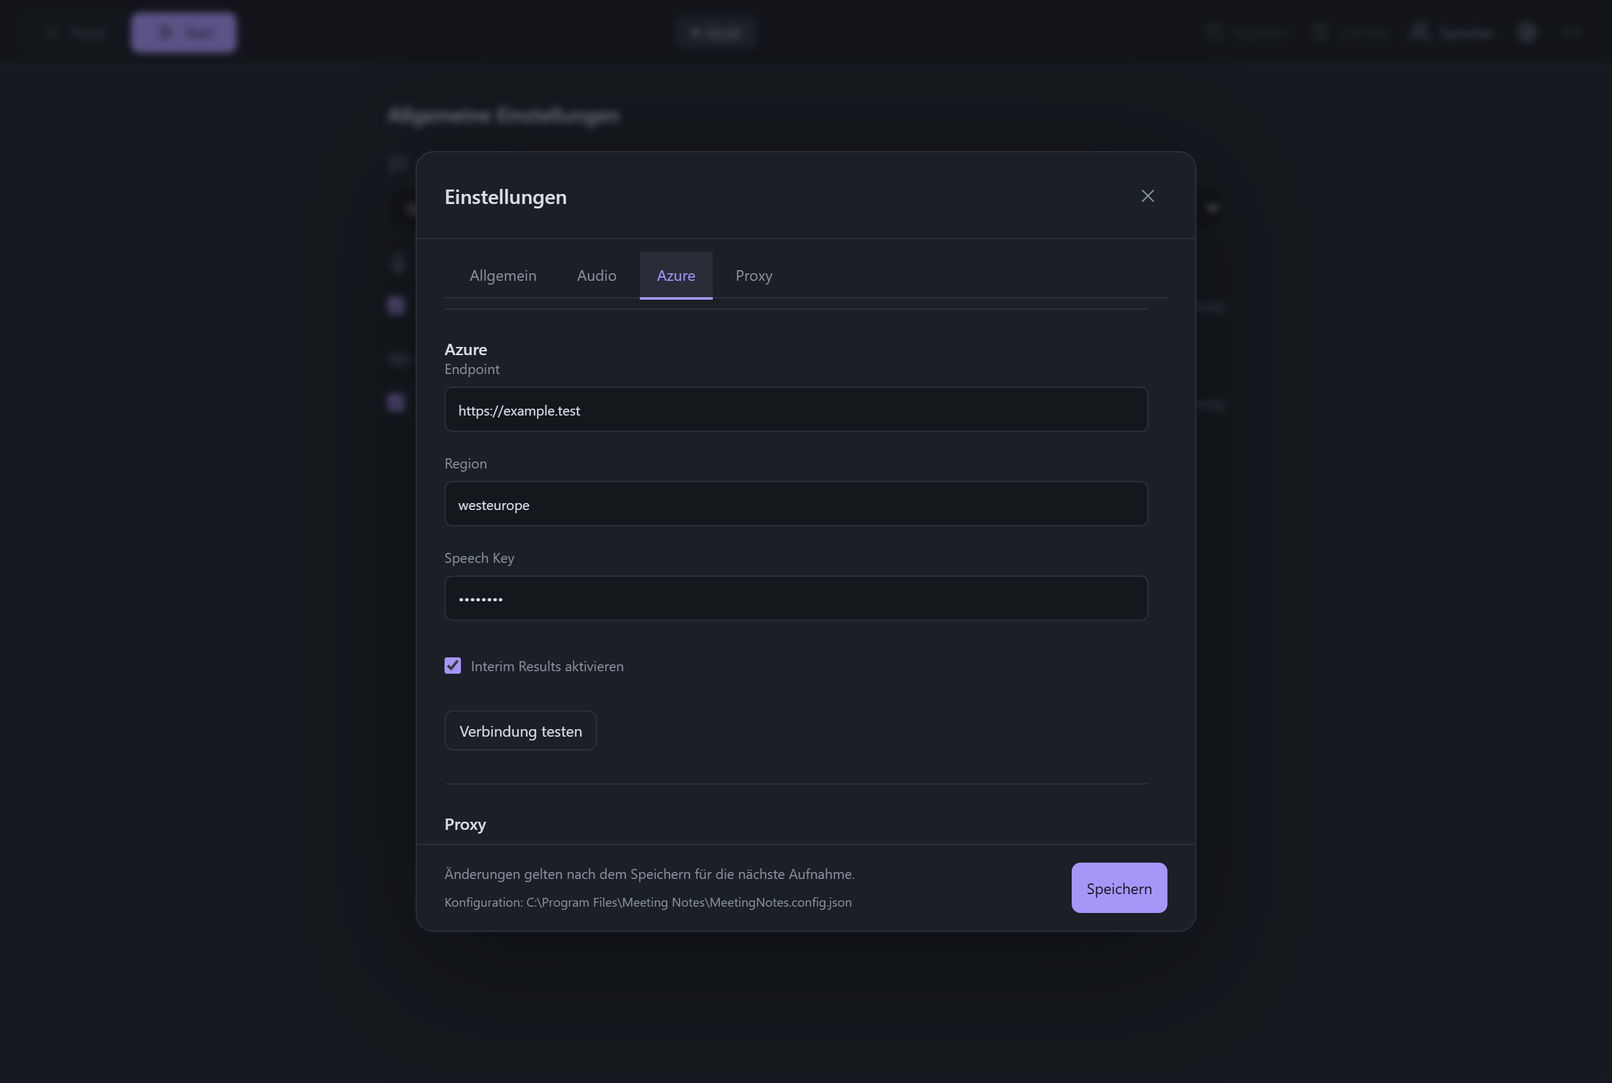
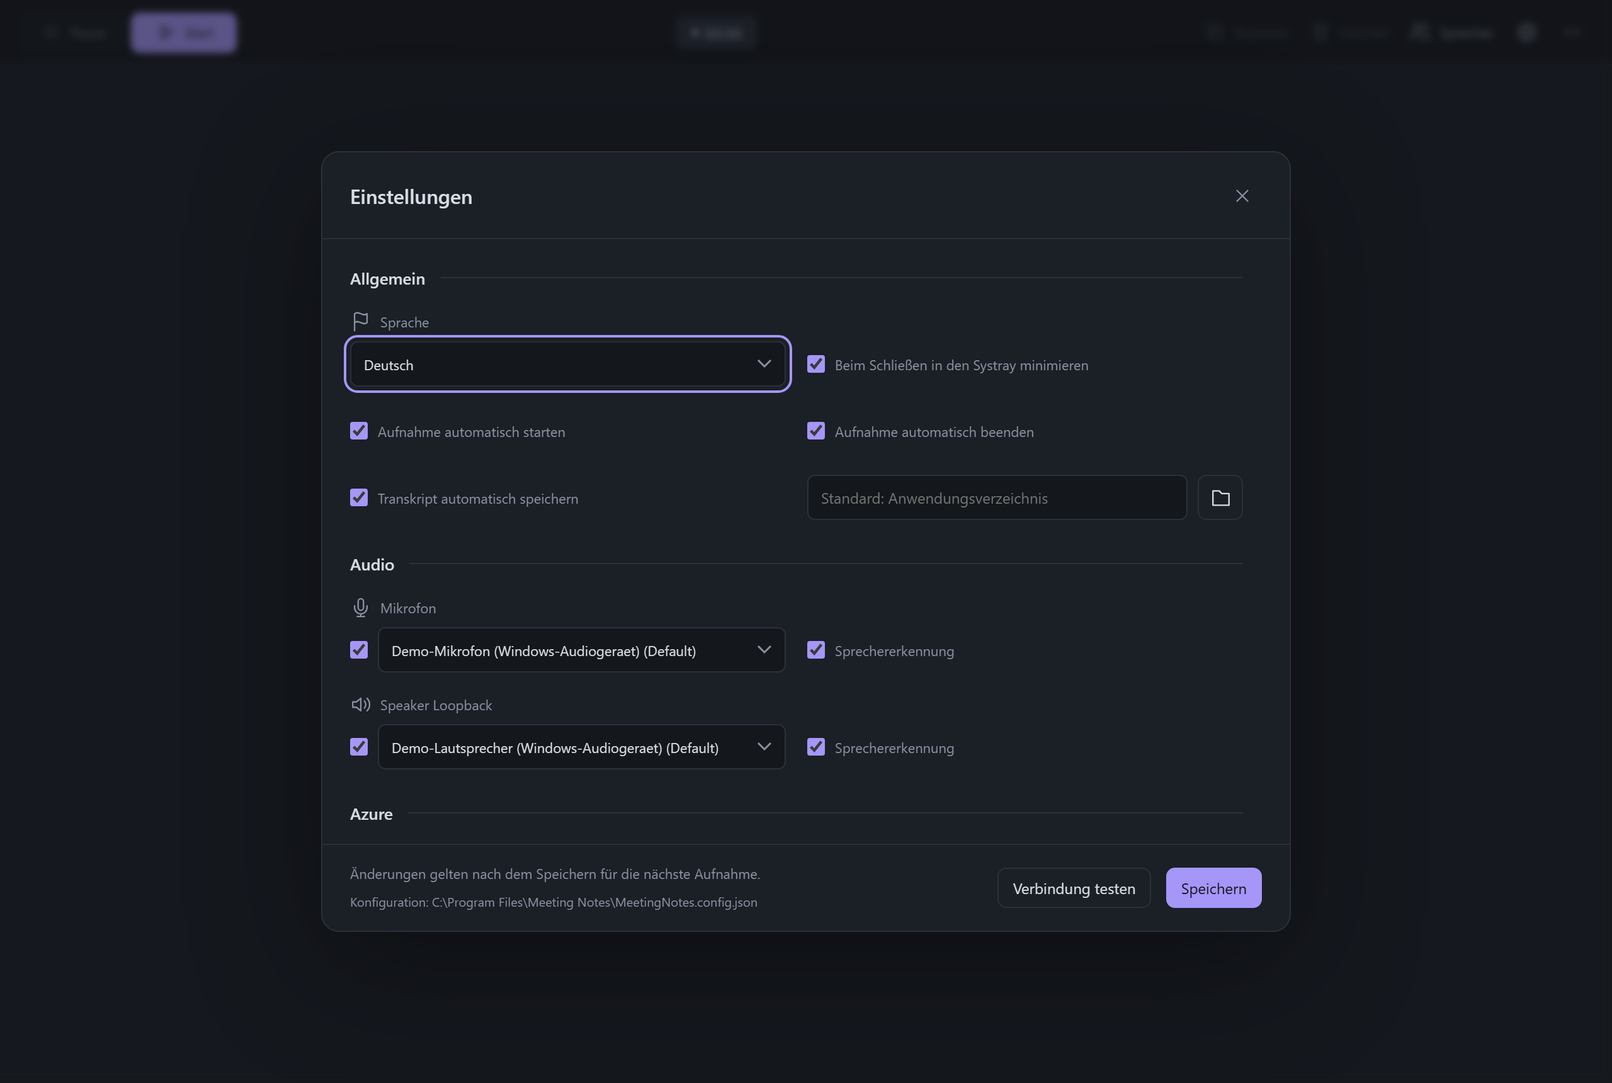
feat(settings): scrollende Einstellungsseite, abschaltbarer Auto-Stop, Tray-Farbindikator

diff --git a/SPEC.md b/SPEC.md
@@ -1,9 +1,10 @@
 # Spezifikation v0.1 — Meeting Notes
 
-Stand: 18.11.2026
+Stand: 19.11.2026
 Status: Implementierungsstand fortgeschrieben; Corporate-Netz-/Proxy-Akzeptanz am 2026-11-12 erfolgreich. Offen bleiben Latenz- und Clean-Machine-Akzeptanz.
 
-Aktueller Stand: **v0.1.2** vollstaendig verifiziert (`npm run verify -- --full`: **9 Schritte gruen**, zusaetzlich **44 Rust-Tests**). Auto-Aufnahme samt zugehoerigem Auto-Stop und Schliessen in den Systray sind standardmaessig aktiv; explizit gespeichertes `false` bleibt erhalten. **92 Node-Tests**, **539 C#-Assertions** gegen Quellen / **552** gegen den publizierten Sidecar. Frischer Portable-Build: **31,37 MB / 4 Dateien / 3 gepruefte Hashes**, Haupt-EXE 16,48 MB (`ProductVersion` 0.1.2), Sidecar 14,89 MB (`FileVersion` 0.1.2.0), Smoke gruen, Deployment **PASS 9 / FAIL 0**. Tray-Icon nativ belegt (Screenshot der echten Taskleiste); Kontextmenue und Doppelklick weiterhin offen. MF-Stichprobe in der interaktiven Sitzung erneut getestet und weiterhin SKIPPED, dort antwortet MediaFoundation nicht. Live-/Clean-Machine-Abnahme bleibt offen. Auto-Start braucht weiterhin vollstaendige Azure-Konfiguration. Details: [CHANGELOG](./CHANGELOG.md).
+Aktueller Stand: **v0.1.3** vollstaendig verifiziert (`npm run verify -- --full`: **9 Schritte gruen**, zusaetzlich **47 Rust-Tests**). Auto-Aufnahme samt zugehoerigem Auto-Stop und Schliessen in den Systray sind standardmaessig aktiv; explizit gespeichertes `false` bleibt erhalten. **94 Node-Tests**, **539 C#-Assertions** gegen Quellen / **552** gegen den publizierten Sidecar. Portable-Build: Haupt-EXE 16,48 MB, Sidecar 14,89 MB, Smoke gruen, Deployment **PASS 9 / FAIL 0**. Tray-Icon nativ belegt (Screenshot der echten Taskleiste); Kontextmenue und Doppelklick weiterhin offen. **Neu in v0.1.3:** Settings-Dialog auf einer scrollenden Seite (Abschnitte Allgemein, Audio, Azure, Proxy als Ueberschriften, ohne Tabs und ohne Bereichsnavigation), **Verbindung testen** im Dialog-Footer, einzeln abschaltbarer Auto-Stop (`user.autoStart.autoStop`) und Tray-Farbindikator (rot bei Aufnahme, gelb bei Pause). Details: [CHANGELOG](./CHANGELOG.md).
+Historischer Nachweis fuer **v0.1.2**; Portable-Build **31,37 MB** (4 Dateien, 3 gepruefte Hashes; Build vom 2026-11-19, `ProductVersion` 0.1.2), `npm run verify -- --full` (**9 Schritte gruen**), Build-Smoke inklusive Sidecar-Geraeteabfrage und Deployment-Nachweis (**PASS 9 / FAIL 0**); dafuer TypeScript, **92 Node-Tests**, **44 Rust-Tests** und **539 C#-Assertions** (davon **552** gegen die publizierte, getrimmte Sidecar-EXE).
 
 Historischer Nachweis fuer **v0.1.1**; Portable-Build **30,74 MB** (4 Dateien, 3 geprüfte Hashes; Rebuild vom 2026-11-18 - flaches Layout mit `MeetingNotes.exe` und **self-contained** Single-File-Sidecar, `ProductVersion` 0.1.1) mit der EXE `MeetingNotes.exe`, dem gemeinsamen Config-Template, der unabhängigen Mic-/Speaker-Diarization und der auswählbaren Transkriptions-Quelle (`user.transcription`, Mic/Speaker/beides); `npm run verify -- --full` (**9 Schritte grün**), Build-Smoke inklusive Sidecar-Geräteabfrage und Deployment-Nachweis (**PASS 9 / FAIL 0**) erfolgreich. Dafür sind TypeScript, **85 Node-Tests**, **35 Rust-Tests** und **508 C#-Assertions** (davon **521** gegen die publizierte, getrimmte Sidecar-EXE) erfolgreich; die Node-/UI-Tests laufen im CLI-Browserlauf grün. Nicht jede ursprüngliche Audio-/Protokoll-Anforderung ist als abgenommen bestätigt; Einzelstatus siehe [Specs](./specs/).
 
@@ -136,7 +137,7 @@ Ein portabler, unsignierter Desktop-PoC, der parallel Mikrofon und primären Spe
 ## 3.1 Technische Architektur
 
 - **App-Container:** Tauri 2 (Rust). Verantwortlich für Fenster/WebView2-Lifecycle, Sidecar-Spawn, Settings-Persistenz, UI-Bridge.
-- **Systray (T-514):** natives Tray-Icon, Kontextmenue `Anzeigen`/`Beenden`, linker Doppelklick stellt das Hauptfenster wieder her und fokussiert es. `user.window.minimizeToTrayOnClose` (Default true ab v0.1.2) verbirgt beim Schliessen nur das Fenster; Aufnahme und Detektor bleiben unveraendert. Explizites Tray-Beenden umgeht CloseRequested und nutzt das vorhandene Sidecar-Cleanup. Gespeicherte Aenderungen gelten sofort. Bei fehlendem/unerreichbarem Tray oder Hide-Fehler bleibt regulaeres Schliessen erhalten.
+- **Systray (T-514):** natives Tray-Icon, Kontextmenue `Anzeigen`/`Beenden`, linker Doppelklick stellt das Hauptfenster wieder her und fokussiert es. Die Iconfarbe zeigt den Aufnahmestatus: **rot** bei laufender Aufnahme, **gelb** bei Pause, zurueck auf die Originalfarbe nach Stop oder Sidecar-Crash. Die Aktualisierung laeuft ueber `tray::update_recording_indicator` bei jedem Status-Event; ein veralteter Status kann die Farbe nicht zuruecksetzen. `user.window.minimizeToTrayOnClose` (Default true ab v0.1.2) verbirgt beim Schliessen nur das Fenster; Aufnahme und Detektor bleiben unveraendert. Explizites Tray-Beenden umgeht CloseRequested und nutzt das vorhandene Sidecar-Cleanup. Gespeicherte Aenderungen gelten sofort. Bei fehlendem/unerreichbarem Tray oder Hide-Fehler bleibt regulaeres Schliessen erhalten.
 - **Meeting-Erkennung:** Der Core-Audio-Session-Graph (`OnSessionCreated` plus `OnStateChanged` in `sidecar/MeetingDetector.cs`) erkennt aktive Audio-Sessions erlaubter Meeting-Prozesse. Der separate Erkennungsprozess (`--detect-only`) laeuft ohne Audio-Capture-Stream und ohne Azure. Wenn alle Capture-/Render-Sessions des ausloesenden Prozesses 3 s inaktiv bleiben, meldet er `meeting_ended`. Nur seine automatisch gestartete Aufnahme wird ueber den normalen Stop-/Export-Pfad beendet; manuelle Aufnahmen sind geschuetzt, Start/Stop serialisiert und Detektor-Ereignisse geordnet. Auto-Start samt passendem Auto-Stop standardmaessig **an** ab v0.1.2 (`user.autoStart.enabled`); explizites false bleibt erhalten. Kein Kalenderzugriff. Session-Ende ist eine Heuristik; Live-Abnahme Teams/Zoom und Pegel-/Stille-Erkennung bleiben offen (T-513).
 - **Backend:** C#/.NET 10 als Sidecar (`MeetingNotes.Sidecar.exe`, self-contained, komprimiert und konservativ getrimmt). Verantwortlich für Audio-Capture, Audio-Resampling, Azure-Speech-Transkription, Speaker-Diarization und Event-Streaming.
 - **Frontend:** React 19 + TypeScript 6 + Vite 8 (im Tauri-Renderer-WebView2).
@@ -168,10 +169,10 @@ Ein portabler, unsignierter Desktop-PoC, der parallel Mikrofon und primären Spe
 - Bei geänderter SDK-Sprecher-ID ersetzt ein neues Interim-/Final-Event ältere Interims derselben Quelle; andere Quellen und finale Segmente bleiben erhalten. Transkript, Sprecherzuordnung und Export berücksichtigen Aliase.
 - Diagnostikbereich mit laufendem Debug-Log (App/Sidecar/IPC).
 - Die Debug-Fußzeile ist initial unsichtbar und wird über **Debug-Log** im Drei-Punkte-Menü umgeschaltet. Beim ersten Anzeigen öffnet sich der Logbereich nach oben, maximal bis 50 % des Inhaltsbereichs. Späteres Aus-/Einblenden erhält seinen Öffnungszustand. Fußzeile mit Fehlerzähler und **Log löschen**; nur Fehlerzeilen und der Zaehler werden rot hervorgehoben, nicht der gesamte Logtext.
-- Einstellungen liegen auf **einer** scrollenden Seite mit vier Abschnitten: **Allgemein**, **Audio**, **Azure**, **Proxy**. Die Navigation am oberen Rand scrollt nur zum jeweiligen Abschnitt, sie blendet nichts aus; alle Abschnitte bleiben gleichzeitig im Dokument. Dialogposition und -groesse bleiben beim Wechsel gleich, der Footer enthaelt den einzigen **Speichern**-Button und den tatsaechlichen Backend-Pfad der gemeinsamen Konfigurationsdatei. Erfolgreiches Speichern schliesst den Dialog; bei Fehlern bleibt er mit Fehlermeldung offen. Die Navigation unterstuetzt Pfeiltasten, Home und End; Escape und Focus-Trap bleiben erhalten.
+- Einstellungen liegen auf **einer** scrollenden Seite mit vier Abschnitten, die als Ueberschriften in der Reihenfolge **Allgemein**, **Audio**, **Azure**, **Proxy** untereinander stehen: **ohne** Tabs und **ohne** Bereichsnavigation, alles bleibt gleichzeitig im Dokument. Der Dialog ist breiter (max. 770 px) und hoeher (max. 620 px) und scrollt im Inhaltsbereich; die Position und Groesse bleiben beim Scrollen gleich. Der Footer enthaelt **Verbindung testen**, das Wiederoeffnen des laufenden/letzten Tests und **Speichern** sowie den tatsaechlichen Backend-Pfad der gemeinsamen Konfigurationsdatei. **Verbindung testen** ist aktiv, sobald Endpunkt, Schluessel und Region gesetzt sind. Erfolgreiches Speichern schliesst den Dialog; bei Fehlern bleibt er mit Fehlermeldung offen. Escape und Focus-Trap bleiben erhalten.
 - Bei leerem Transkript und gestoppter Aufnahme zeigt der Hauptbereich nur Sprache und Audioeinstellungen ohne Anwendungshinweis oder Speichern-Button. Aenderungen werden sofort seriell gespeichert; Azure-/Proxy-Drafts bleiben davon unberuehrt. Start wartet auf erfolgreiche Persistenz. Mikrofon und Speaker-Loopback stehen untereinander; pro Zeile steht die Transkriptions-Checkbox links vor dem Geraet und die Sprechererkennung rechts daneben. **Löschen** im Header ist während Aufnahme, Pause und Start deaktiviert und auch im Handler gesperrt.
 - Nach einem Sidecar-Crash kann der Nutzer mit **Start** eine neue Sitzung beginnen, ohne die App neu zu starten. Kein automatischer Reconnect; das alte Transkript bleibt bis zum manuellen Start erhalten. Veraltete Prozess-Events/Timeouts werden ignoriert und absichtliches Stoppen meldet keinen Crash.
-- Nutzer kann Sprache/Devices sowie Azure-Konfiguration und Proxy bearbeiten. Proxy wird gemeinsam mit Azure gespeichert; **Verbindung testen** und laufende/letzte Ergebnisse öffnen liegen im Azure-Bereich.
+- Nutzer kann Sprache/Devices sowie Azure-Konfiguration und Proxy bearbeiten. Proxy wird gemeinsam mit Azure gespeichert; **Verbindung testen** und das Wiederoeffnen des laufenden/letzten Tests liegen im Dialog-Footer neben **Speichern** und bleiben beim Scrollen sichtbar.
 - Spracheinstellung und unabhaengige Sprechererkennung fuer Mic/Speaker werden ueber Neustarts hinweg persistiert. Die beiden Diarization-Checkboxen stehen jetzt im Abschnitt **Audio** direkt bei den jeweiligen Geraeten und sind waehrend der Aufnahme deaktiviert. Gespeicherte Aenderungen gelten fuer die naechste Aufnahme.
 - Im Abschnitt **Allgemein** stehen **Aufnahme bei erkanntem Meeting automatisch starten** und direkt darunter die neue Option **Aufnahme automatisch beenden, wenn das Meeting automatisch gestartet wurde** (`user.autoStart.autoStop`, standardmaessig aktiv; ausgeschaltet laeuft die automatisch gestartete Aufnahme bis zum manuellen Stop weiter). Darunter folgen **Transkript automatisch als Markdown speichern** (standardmaessig aktiv) und das optionale Feld **Speicherpfad** mit nativem Ordner-Picker - das Feld steht direkt unter seiner Checkbox. Manuelle Eingabe bleibt moeglich; Abbrechen der Ordnerauswahl veraendert den Pfad nicht. Leer bedeutet Anwendungsverzeichnis.
 - Die initiale Fenstergroesse ist 950 x 650 logische Pixel; das Fenster bleibt skalierbar.

diff --git a/AGENTS.md b/AGENTS.md
@@ -1,7 +1,7 @@
 # Project: Meeting Notes
 
 ## Aktueller Status
-- 19.11.2026: **Settings-Dialog neu gestaltet.** Alle Einstellungen stehen jetzt untereinander auf **einer** scrollenden Seite; die Navigation am oberen Rand scrollt nur zum jeweiligen Abschnitt (**Allgemein**, **Audio**, **Azure**, **Proxy**), statt Tabs umzuschalten. Mic und Speaker liegen in einem eigenen Abschnitt **Audio** (eigene Komponente `AudioPanel.tsx`, gemeinsam genutzt mit dem Leerzustand auf der Startseite). Der Speicherpfad steht direkt unter seiner Checkbox "Transkript automatisch als Markdown speichern". **Neue Option:** `user.autoStart.autoStop` - "Aufnahme automatisch beenden, wenn das Meeting automatisch gestartet wurde"; ausgeschaltet laeuft die automatisch gestartete Aufnahme bis zum manuellen Stop weiter. Standardmaessig aktiv, fehlende Felder erhalten `true`, explizit gespeichertes `false` bleibt erhalten (TS- und Rust-Vertrag, Beispielconfig, `commands.rs::auto_stop_allowed`). **Verifiziert:** 93 Node-Tests, 45 Rust-Tests, Typecheck gruen; Screenshots in `docs/native/` (echte Anwendung, neu gebaut) und `docs/renderer/` neu erzeugt.
+- 19.11.2026: **Settings-Dialog neu gestaltet (finale Fassung nach Martins Nachschärfung `a717f07`).** Alle Einstellungen stehen untereinander auf **einer** scrollenden Seite; die Abschnitte **Allgemein**, **Audio**, **Azure**, **Proxy** erscheinen als Ueberschriften in dieser Reihenfolge - **ohne Tabs und ohne Bereichsnavigation** (die zwischenzeitliche Section-Leiste wurde wieder entfernt). Mic und Speaker liegen in einem eigenen Abschnitt **Audio** (Komponente `AudioPanel.tsx`, auch im Leerzustand der Startseite genutzt). **Verbindung testen** und das Wiederoeffnen des laufenden/letzten Tests liegen im **Dialog-Footer** neben **Speichern**, nicht mehr im Azure-Abschnitt. Der Speicherpfad steht direkt unter seiner Checkbox "Transkript automatisch als Markdown speichern". **Neue Option:** `user.autoStart.autoStop` - "Aufnahme automatisch beenden, wenn das Meeting automatisch gestartet wurde"; ausgeschaltet laeuft die automatisch gestartete Aufnahme bis zum manuellen Stop weiter. Standardmaessig aktiv, fehlende Felder erhalten `true`, explizit gespeichertes `false` bleibt erhalten (TS- und Rust-Vertrag, Beispielconfig, `commands.rs::auto_stop_allowed`). **Neu aus `a717f07`:** Tray-Icon faerbt sich **rot** bei Aufnahme und **gelb** bei Pause (`tray::update_recording_indicator`, ausgeloest in `events::emit_status`). **Verifiziert:** 94 Node-Tests, 47 Rust-Tests, Typecheck gruen; Screenshots in `docs/native/` (echte Anwendung) und `docs/renderer/` neu erzeugt.
 - 19.11.2026: **GitHub-Actions-Pipeline und Release v0.1.2 nachgetragen.** Vorher gab es **keinen** `.github`-Ordner: alle Builds und Releases entstanden manuell auf einem einzigen Windows-Rechner. Neu: **ausschliesslich** `.github/workflows/release.yml` - bewusst **kein** automatischer Build bei Push oder Pull Request, der Workflow startet nur bei einem Release-Tag (Push eines `v*`-Tags: Tag auschecken, Typecheck, Node-Tests, Spec-Konsistenz, Portable-Distribution bauen, Smoke-Test und Deployment-Pruefung, ZIP `MeetingNotes-v<version>-win-x64.zip` plus `SHA256SUMS.zip` als GitHub-Release-Asset; `workflow_dispatch` mit `tag`-Input holt ein fehlendes Release ohne Tag-Verschiebung nach). Martins Vorgabe: kein automatischer CI-Build - Builds entstehen nur, wenn eine Veroeffentlichung tatsaechlich stattfinden soll. **Bewusste Luecke:** die C#-Sidecar-Validierung laeuft **nicht** im Workflow - sie braucht reale Audio-Hardware, die GitHub-Runner nicht haben (`CoreAudioException 0x80070490`). `verify:deployment` funktioniert ohne Geraete, weil `DeviceResolver.ListDevices` die Default-Endpunkte per try/catch abfaengt. **v0.1.2 nachgetragen:** das Tag existierte, das Release nicht - jetzt veroeffentlicht: [Release v0.1.2](https://github.com/schirkan/meeting-notes-tauri/releases/tag/v0.1.2) mit `MeetingNotes-v0.1.2-win-x64.zip` (16.469.792 Bytes, SHA256 `c917e8a8…949f2`) und `SHA256SUMS.txt`, erzeugt vom Release-Workflow auf GitHub-Runnern aus dem Tag-Stand `e3781c1`. Gegenprobe: ZIP heruntergeladen und entpackt, **3/3 Dateien** gegen die archivinterne `SHA256SUMS` verifiziert, `MeetingNotes.exe` ProductVersion 0.1.2, `MeetingNotes.Sidecar.exe` FileVersion 0.1.2.0, entpackt 31,17 MB / 4 Dateien; Asset-Digest von GitHub und selbst berechneter Hash stimmen ueberein. **Zwei Dinge unterwegs korrigiert:** (1) Der erste Pipeline-Lauf scheiterte an `Get-FileHash` - das Utility-Modul fehlt auf GitHub-Runnern; `scripts/verify-deployment.ps1` rechnet den SHA256 jetzt ueber die .NET-API, damit das Skript ohne geladenes Utility-Modul laeuft (lokal unter 5.1 und 7 gegen `Get-FileHash` gegengeprueft, identisch). (2) Das Tag `v0.1.2` wurde deshalb vor der Veroeffentlichung auf `e3781c1` verschoben; der Produktcode zwischen `5b8d876` und `e3781c1` ist identisch (`git diff --stat` ueber `src`, `src-tauri/src`, `tauri.conf.json` und `sidecar` ist leer), geaendert wurden nur Doku, Specs, Screenshots, Build-Skripte und die Pipeline. Der Tag enthaelt damit auch die korrigierte Workflow-Fassung (`SHA256SUMS.txt` statt `.zip`, kein `--target`). Neu: Spec [T-515](./specs/T-515-github-actions-pipeline-und-release.md), README-Abschnitt "Releases and CI", SPEC-Abschnitt "Release-Pipeline".
 - 19.11.2026: **Befund zur Desktop-Anmeldung - meine fruehere Aussage war falsch.** Es gibt sehr wohl eine interaktive Windows-Sitzung: `query session` zeigt Session 1 (`Admin`, Status `Getr.`) mit Explorer, Edge, Terminal und Task-Manager - die Anmeldung ist also da, nur der physische Bildschirm zeigt in Session 2 (`console`, `Verb.`) die `LogonUI`-Anmeldemaske. **Die eigentliche Ursache:** der OpenClaw-Gateway-Prozess laeuft selbst in **Session 0** (Dienste-Sitzung, `SessionId=0`) und hat dort weder Window-Station noch Desktop des angemeldeten Benutzers - deshalb scheiterte `CopyFromScreen` mit "Das Handle ist ungueltig" und die Tray-Probe wurde als "kein interaktiver Desktop" fehlinterpretiert. **Loesung (verifiziert):** ein geplanter Task mit `-LogonType Interactive` laeuft in der Benutzersitzung (`session=1`, `UserInteractive=True`) und hat damit echten Desktop, echten Explorer-Taskbar und echte Fenster. **Folge:** `docs/native/*.png` enthaelt jetzt echte Screenshots der gebauten `MeetingNotes.exe` inkl. echtem Fensterrahmen, echtem App-Icon, echtem WebView2 und echter Taskleiste (`PrintWindow` mit `PW_RENDERFULLCONTENT`). `docs/renderer/*.png` bleibt fuer Zustande, die ohne Azure-Credentials nicht entstehen (laufende Aufnahme mit Transkript). Neu: `scripts/run-native-capture.ps1` (Bruecke in die Benutzersitzung), `scripts/capture-native-screenshots.ps1` (echte Aufnahmen), `scripts/capture-tray-acceptance.ps1` (Tray-Sonde), `scripts/run-interactive-validation.ps1` (Sidecar-Validierung in der Benutzersitzung); npm: `screenshots:native`, `test:tray:native`. **T-514:** das Tray-Icon ist jetzt nativ belegt (UI-Automation: Name `Meeting Notes`, Klasse `SystemTray.NormalButton` in der Benachrichtigungszone); **Kontextmenue und Doppelklick bleiben unbelegt**, weil synthetische Maus-Eingaben in der getrennten Benutzersitzung nicht zugestellt werden - das ist in der Spec so dokumentiert. **T-203:** die MF-Stichprobe wurde in der Benutzersitzung erneut getestet und bleibt `SKIPPED`, dort antwortet MediaFoundation nicht und CoreAudio meldet `0x80070490` (kein Standard-Audio-Endpoint in dieser Sitzung).
 - 18.11.2026: **Screenshots der Oberflaeche erzeugt und in die README eingebunden.** Acht PNGs liegen in `docs/` (Startbildschirm, laufende Aufnahme mit Dummy-Transkript, Einstellungen Allgemein/Azure/Proxy, Verbindungstest, Sprecherzuordnung, Debug-Log) plus `docs/README.md` als Bilduebersicht. Erzeugt von `scripts/capture-screenshots.mjs` (`npm run screenshots`): der **echte Renderer** (React/CSS aus `src/renderer`) laeuft headless ueber den Vite-Dev-Server, nur die Tauri-Bridge (`window.transcriptApi`) ist eine Attrappe mit realistischen Daten. **Warum so:** diese Annahme war falsch (siehe Eintrag vom 19.11.2026): eine interaktive Sitzung existiert, das Gateway laeuft nur in Session 0 und sieht sie nicht. Native Aufnahmen sind jetzt moeglich. **Belegt:** Layout, Texte, Dialoge, Zustaende. **Nicht belegt:** natives Fensterrahmens, Tray-Icon, WebView2-Integration, Aufnahme-Pipeline - das steht so in README und `docs/README.md`. Das Skript ist bewusst reines ASCII mit `\u`-Escapes fuer die deutschen Oberflaechentexte: eine PowerShell-Regex hatte die Umlaute vorher zerstoert und den Selektor `Einstellungsdialog oeffnen` unauffindbar gemacht. Verifiziert: alle acht Aufnahmen erzeugt und visuell geprueft, alle sieben README-Verweise auf existierende Dateien geprueft, Typecheck und Spec-Konsistenz gruen, `docs/` ist nicht gitignoriert. Kein Aenderung an Produktcode, keine neue Version.

diff --git a/README.md b/README.md
@@ -76,7 +76,7 @@ still needs a machine with an attached display.
 - An internet connection and an **Azure Speech resource** with an endpoint, region, and key
 - A microphone and/or an audio output device, depending on which source you want to transcribe
 
-> **Downloading a release?** The published **v0.1.1** release and tagged **v0.1.2** builds bundle the .NET
+> **Downloading a release?** The published **v0.1.1** release and all tagged builds from **v0.1.2** on bundle the .NET
 > runtime, so no separate .NET installation is needed; an existing .NET 8 or 10
 > installation does not interfere. The earlier **v0.1.0** release still requires the
 > [.NET 10 Runtime (x64)](https://dotnet.microsoft.com/en-us/download/dotnet/10.0).
@@ -84,7 +84,7 @@ still needs a machine with an attached display.
 > [release notes](https://github.com/schirkan/meeting-notes-tauri/releases)
 > for the requirements and features of a downloaded version.
 
-From **v0.1.2**, new or incomplete configurations default to automatic meeting capture, matching automatic stop, and close-to-tray. Previously saved `false` preferences are preserved. Auto-recording still requires a complete Azure configuration. See [the changelog](./CHANGELOG.md) for the tagged version's changes; a Git tag does not itself add a downloadable GitHub release asset.
+From **v0.1.2**, new or incomplete configurations default to automatic meeting capture, matching automatic stop, and close-to-tray. In **v0.1.3** the settings dialog is a single scrolling page (Allgemein, Audio, Azure, Proxy) and the matching automatic stop can be switched off separately; the tray icon turns red while recording and yellow while paused. Previously saved `false` preferences are preserved. Auto-recording still requires a complete Azure configuration. See [the changelog](./CHANGELOG.md) for the tagged version's changes; a Git tag does not itself add a downloadable GitHub release asset.
 
 ### Run the portable version
 

diff --git a/CHANGELOG.md b/CHANGELOG.md
@@ -1,13 +1,15 @@
 # Changelog
 
-## Unreleased
+## 0.1.3 - 2026-11-19
 
 ### Neu
-- **Settings-Dialog auf einer Seite:** Alle Einstellungen stehen untereinander auf einer scrollenden Seite. Die Navigation am oberen Rand scrollt nur zum jeweiligen Abschnitt (**Allgemein**, **Audio**, **Azure**, **Proxy**) und schaltet nichts mehr um.
-- **Eigener Abschnitt Audio:** Mikrofon und Speaker-Loopback liegen jetzt dort mit ihren Geraete-Auswahlen und der Sprechererkennung.
+- **Settings-Dialog auf einer Seite:** Alle Einstellungen stehen untereinander auf einer scrollenden Seite. Die Abschnitte **Allgemein**, **Audio**, **Azure**, **Proxy** erscheinen als Ueberschriften in dieser Reihenfolge - ohne Tabs und ohne Bereichsnavigation; alles bleibt gleichzeitig sichtbar und wird nur gescrollt.
+- **Eigener Abschnitt Audio:** Mikrofon und Speaker-Loopback liegen dort mit ihren Geraete-Auswahlen und der Sprechererkennung.
 - **Auto-Stop einzeln abschaltbar:** neue Option `user.autoStart.autoStop` ("Aufnahme automatisch beenden, wenn das Meeting automatisch gestartet wurde"). Ausgeschaltet bleibt die automatisch gestartete Aufnahme laufen, bis sie manuell gestoppt wird. Standardmaessig aktiv; fehlende Felder erhalten `true`, explizit gespeichertes `false` bleibt erhalten.
 
 ### Geaendert
+- **Verbindung testen** liegt jetzt im Dialog-Footer neben **Speichern** statt im Azure-Abschnitt; das Wiederoeffnen des laufenden/letzten Tests bleibt dort ebenfalls erreichbar.
+- Das Tray-Icon faerbt sich **rot** waehrend einer Aufnahme und **gelb** waehrend der Pause; nach Stop oder Sidecar-Crash kehrt es zur Originalfarbe zurueck.
 - Der Speicherpfad fuer den Markdown-Export steht direkt unter seiner Checkbox "Transkript automatisch als Markdown speichern".
 
 ## v0.1.2 - 18.11.2026
